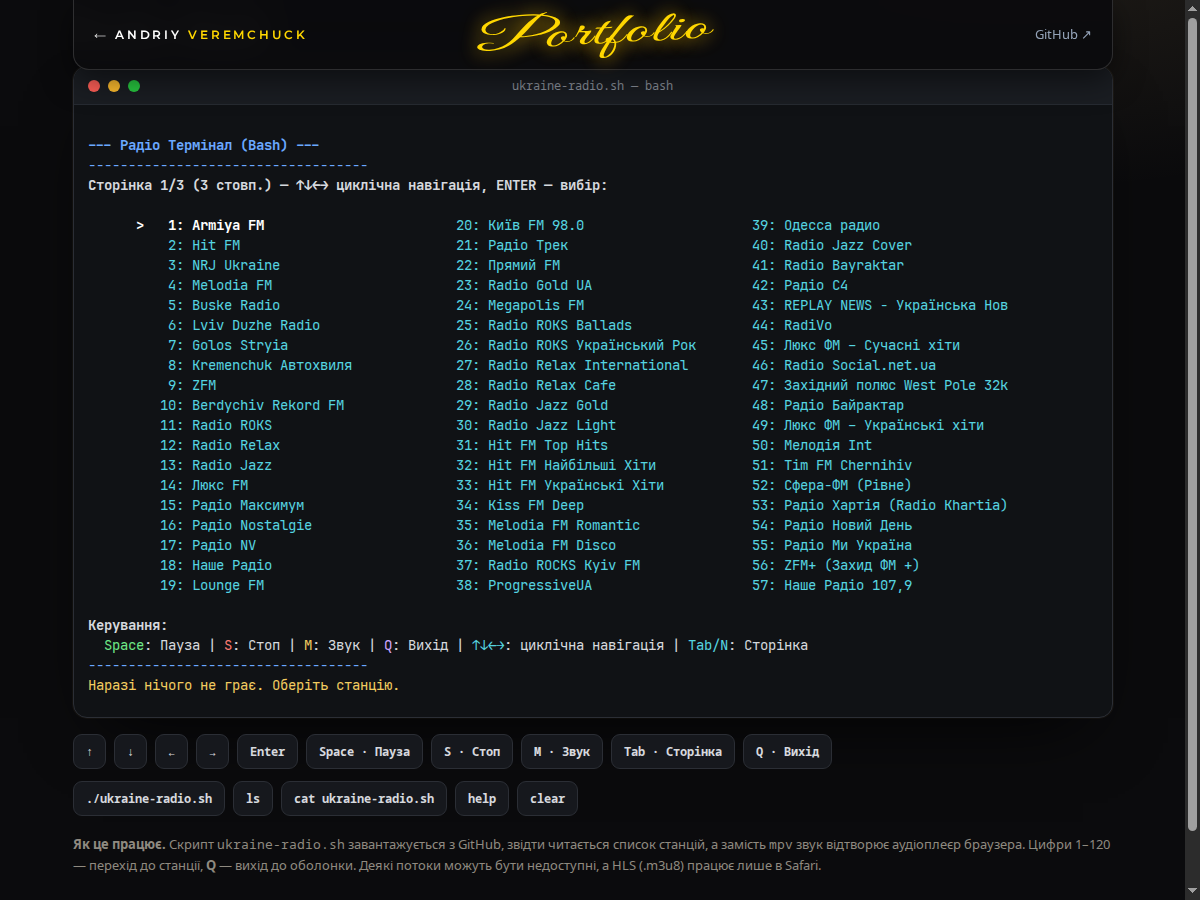
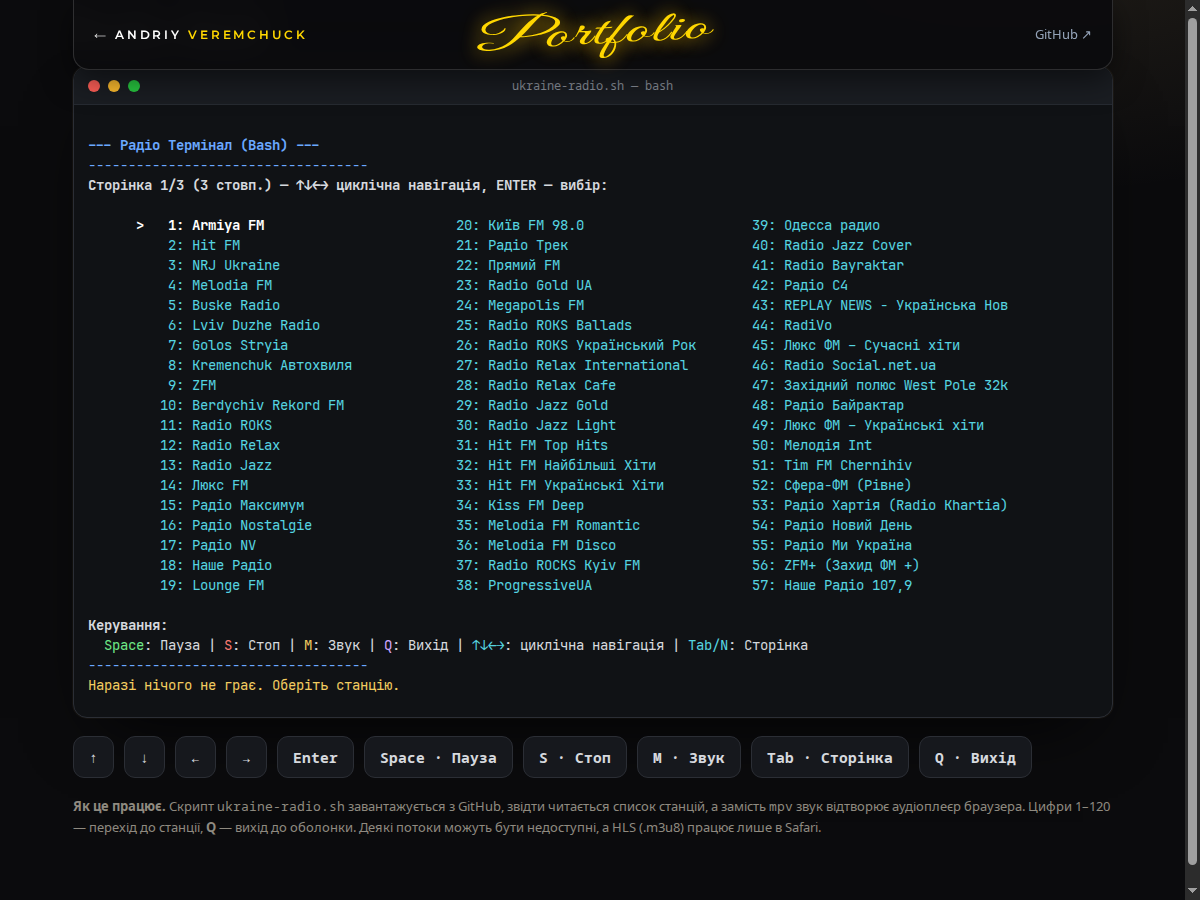
Прибрано кнопки команд та збільшено екранні клавіші на 20%

Changed region(s): [[0.0617, 0.8089, 0.925, 0.9644], [0.9867, 0.9022, 1.0, 0.9644]]

diff --git a/web/index.html b/web/index.html
@@ -73,13 +73,12 @@ pre{margin:0;padding:10px 14px;color:var(--term-text);font:14px/20px "JetBrains 
 .cy{color:#56d4e0}.wh{color:#fff}.gr{color:#6ee787}.bl{color:#6aa8ff}.ye{color:#f2cc60}.re{color:#ff7b72}.pu{color:#d2a8ff}.b{font-weight:700}.dim{color:#7d838d}
 .cur{background:#d6d9de;color:#101215;animation:blink 1.1s steps(1) infinite}
 @keyframes blink{50%{background:transparent;color:inherit}}
-.keys{display:flex;flex-wrap:wrap;gap:8px;margin-top:16px}
-.keys button,.chips button{font:600 12px ui-monospace,Menlo,Consolas,monospace;color:var(--term-text);background:#16181d;border:1px solid #2b2e35;border-radius:9px;padding:8px 12px;cursor:pointer;
+.keys{display:flex;flex-wrap:wrap;gap:10px;margin-top:18px}
+.keys button{font:600 14.5px ui-monospace,Menlo,Consolas,monospace;color:var(--term-text);background:#16181d;border:1px solid #2b2e35;border-radius:11px;padding:10px 15px;cursor:pointer;
   transition:border-color .2s,color .2s,transform .2s}
-.keys button:hover,.chips button:hover{border-color:var(--accent);color:var(--accent);transform:translateY(-2px)}
-.keys button:active,.chips button:active{transform:none}
+.keys button:hover{border-color:var(--accent);color:var(--accent);transform:translateY(-2px)}
+.keys button:active{transform:none}
 .keys .sep{flex:1 1 20px}
-.chips{display:flex;flex-wrap:wrap;gap:8px;margin-top:12px}
 .note{margin:18px 0 0;color:var(--muted);font-size:13px}
 @media(max-width:1080px){.top-nav{border-left:none;border-right:none;border-radius:0}}
 @media(max-width:640px){.wrap{padding:12px 16px 32px}.top-nav{width:calc(100% - 32px);min-height:52px}.top-nav-inner{padding:12px 16px;min-height:52px}.title{display:none}.screen{height:clamp(380px,62vh,620px)}}
@@ -114,13 +113,6 @@ pre{margin:0;padding:10px 14px;color:var(--term-text);font:14px/20px "JetBrains 
     <button type="button" data-k="m">M · Звук</button>
     <button type="button" data-k="Tab">Tab · Сторінка</button>
     <button type="button" data-k="q">Q · Вихід</button>
-  </div>
-  <div class="chips" id="chips" aria-label="Швидкі команди">
-    <button type="button" data-c="./ukraine-radio.sh">./ukraine-radio.sh</button>
-    <button type="button" data-c="ls">ls</button>
-    <button type="button" data-c="cat ukraine-radio.sh">cat ukraine-radio.sh</button>
-    <button type="button" data-c="help">help</button>
-    <button type="button" data-c="clear">clear</button>
   </div>
   <p class="note"><b>Як це працює.</b> Скрипт <code>ukraine-radio.sh</code> завантажується з GitHub, звідти читається список станцій, а замість <code>mpv</code> звук відтворює аудіоплеєр браузера. Цифри 1–120 — перехід до станції, <b>Q</b> — вихід до оболонки. Деякі потоки можуть бути недоступні, а HLS (.m3u8) працює лише в Safari.</p>
 </div>
@@ -458,12 +450,6 @@ addEventListener('paste',e=>{
 });
 $('#keys').addEventListener('mousedown',e=>e.preventDefault());
 $('#keys').addEventListener('click',e=>{const b=e.target.closest('button');if(b)onKey(b.dataset.k)});
-$('#chips').addEventListener('click',async e=>{
-  const b=e.target.closest('button');if(!b)return;
-  if(mode==='tui')quitTui();
-  if(mode!=='shell')return;
-  input=b.dataset.c;await shellKey('Enter');
-});
 screen.addEventListener('click',()=>{window.focus()});
 new ResizeObserver(()=>{size();layout();draw()}).observe(screen);
 
